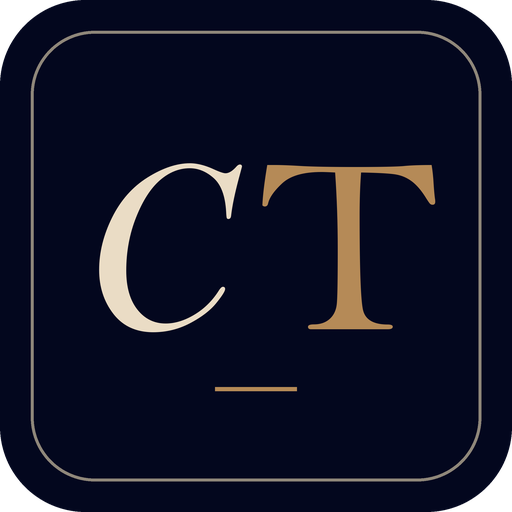
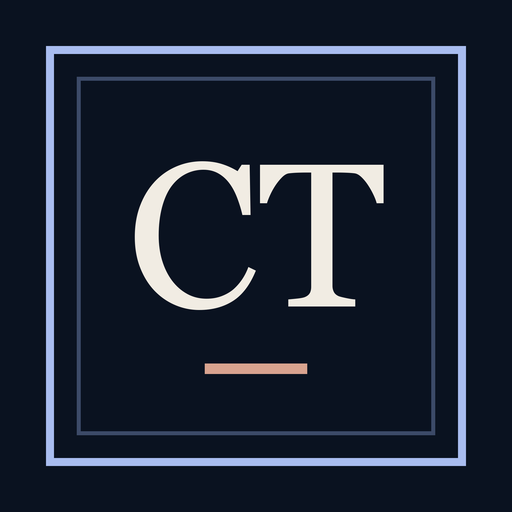
Revert the side-by-side CT monogram; back to the previous CT

diff --git a/index.html b/index.html
@@ -24,8 +24,8 @@
   <link href="https://fonts.googleapis.com/css2?family=Libre+Caslon+Display&family=Tinos:ital,wght@0,400;0,700;1,400&family=Pinyon+Script&family=Mrs+Saint+Delafield&display=swap" rel="stylesheet" />
   <link rel="icon" type="image/png" sizes="64x64" href="assets/favicon-64.png" />
   <link rel="apple-touch-icon" href="assets/apple-touch-icon.png" />
-  <link rel="stylesheet" href="css/style.css?v=381" />
-  <script src="js/boot.js?v=381"></script>
+  <link rel="stylesheet" href="css/style.css?v=371" />
+  <script src="js/boot.js?v=371"></script>
 </head>
 <body>
   <div class="intro" id="intro" aria-hidden="true">
@@ -37,7 +37,7 @@
   </div>
   <div class="backdrop" aria-hidden="true">
     <div class="weave"></div>
-    <div class="emboss"><span class="mc">C</span><span class="mt">T</span></div>
+    <div class="emboss">CT</div>
   </div>
   <div class="wipe" id="wipe" aria-hidden="true"></div>
   <div class="progress" id="progress" aria-hidden="true"></div>
@@ -45,7 +45,7 @@
   <!-- ============ NAV ============ -->
   <header class="nav" id="nav">
     <div class="nav-in">
-      <a class="logo" href="#home" aria-label="Chennuru Tejith, home"><span class="crest" aria-hidden="true"><span><span class="mc">C</span><span class="mt">T</span></span></span><span class="logo-name">Chennuru Tejith</span></a>
+      <a class="logo" href="#home" aria-label="Chennuru Tejith, home"><span class="crest" aria-hidden="true"><span>CT</span></span><span class="logo-name">Chennuru Tejith</span></a>
       <nav class="nav-links" aria-label="Sections">
         <a href="#home">Home</a>
         <a href="#about">About</a>
@@ -101,7 +101,7 @@
         <figure class="portrait" id="portrait" hidden>
           <span class="portrait-tag" aria-hidden="true">Chennuru Tejith · Hyderabad · BBA + MBA</span>
           <div class="frame" id="frame">
-            <div class="frame-empty" aria-hidden="true"><span class="crest crest-xl"><span><span class="mc">C</span><span class="mt">T</span></span></span><span>Portrait</span></div>
+            <div class="frame-empty" aria-hidden="true"><span class="crest crest-xl"><span>CT</span></span><span>Portrait</span></div>
             <span class="frame-fx" aria-hidden="true"></span>
           </div>
           <figcaption class="pq">
@@ -371,7 +371,7 @@
     <section class="cta wrap" id="contact" data-page="contact">
       <div class="cta-card">
         <div class="cta-bg" aria-hidden="true"></div>
-        <span class="watermark" aria-hidden="true"><span class="mc">C</span><span class="mt">T</span></span>
+        <span class="watermark" aria-hidden="true">CT</span>
         <p class="kicker light">Contact</p>
         <h2>Let&rsquo;s work together<span class="dot-c">.</span></h2>
         <div class="sig" id="sig" aria-label="Signature"></div>
@@ -526,11 +526,11 @@
 
   <div class="toast" id="toast" role="status" hidden></div>
 
-  <script src="js/data.js?v=381"></script>
-  <script src="js/icons.js?v=381"></script>
-  <script src="js/india.js?v=381"></script>
+  <script src="js/data.js?v=371"></script>
+  <script src="js/icons.js?v=371"></script>
+  <script src="js/india.js?v=371"></script>
   <script src="js/vendor/gsap.min.js?v=3125"></script>
   <script src="js/vendor/lenis.min.js?v=1113"></script>
-  <script src="js/app.js?v=381"></script>
+  <script src="js/app.js?v=371"></script>
 </body>
 </html>

diff --git a/build.js b/build.js
@@ -277,8 +277,7 @@ fs.writeFileSync("404.html", `<!doctype html>
 * { box-sizing: border-box; }
 body { margin: 0; min-height: 100vh; display: grid; place-items: center; padding: 40px 20px; background: var(--bg); color: var(--ink); font: 17px/1.65 "Times New Roman", Tinos, Times, serif; }
 main { width: min(760px, 100%); }
-.crest i { font-style: italic; color: var(--ink); } .crest b { font-weight: 400; color: var(--acc); }
-.crest { display: inline-flex; align-items: center; justify-content: center; gap: 2px; border-radius: 12px; width: 56px; height: 56px; border: 1px solid var(--ink4); font: 24px "Bell MT", "Libre Caslon Display", "Times New Roman", serif; text-decoration: none; color: var(--ink); }
+.crest { display: inline-grid; place-items: center; width: 56px; height: 56px; border: 1px solid var(--ink4); font: 24px "Bell MT", "Libre Caslon Display", "Times New Roman", serif; text-decoration: none; color: var(--ink); }
 .k { margin: 40px 0 14px; font: 11px "Times New Roman", Tinos, Times, serif; letter-spacing: .22em; text-transform: uppercase; color: var(--clay); }
 h1 { margin: 0 0 18px; font: 400 clamp(56px, 10vw, 120px)/.95 "Bell MT", "Libre Caslon Display", "Times New Roman", serif; letter-spacing: -.02em; }
 h1 span { color: var(--clay); }
@@ -290,7 +289,7 @@ nav a:hover { color: var(--acc); }
 </head>
 <body>
 <main>
-<a class="crest" href="/" aria-label="Home"><i>C</i><b>T</b></a>
+<a class="crest" href="/" aria-label="Home">CT</a>
 <p class="k">Error 404</p>
 <h1>This page took a wrong turn<span>.</span></h1>
 <p>The link may be old, or the address mistyped. Everything is still here:</p>

diff --git a/404.html b/404.html
@@ -14,8 +14,7 @@
 * { box-sizing: border-box; }
 body { margin: 0; min-height: 100vh; display: grid; place-items: center; padding: 40px 20px; background: var(--bg); color: var(--ink); font: 17px/1.65 "Times New Roman", Tinos, Times, serif; }
 main { width: min(760px, 100%); }
-.crest i { font-style: italic; color: var(--ink); } .crest b { font-weight: 400; color: var(--acc); }
-.crest { display: inline-flex; align-items: center; justify-content: center; gap: 2px; border-radius: 12px; width: 56px; height: 56px; border: 1px solid var(--ink4); font: 24px "Bell MT", "Libre Caslon Display", "Times New Roman", serif; text-decoration: none; color: var(--ink); }
+.crest { display: inline-grid; place-items: center; width: 56px; height: 56px; border: 1px solid var(--ink4); font: 24px "Bell MT", "Libre Caslon Display", "Times New Roman", serif; text-decoration: none; color: var(--ink); }
 .k { margin: 40px 0 14px; font: 11px "Times New Roman", Tinos, Times, serif; letter-spacing: .22em; text-transform: uppercase; color: var(--clay); }
 h1 { margin: 0 0 18px; font: 400 clamp(56px, 10vw, 120px)/.95 "Bell MT", "Libre Caslon Display", "Times New Roman", serif; letter-spacing: -.02em; }
 h1 span { color: var(--clay); }
@@ -27,7 +26,7 @@ nav a:hover { color: var(--acc); }
 </head>
 <body>
 <main>
-<a class="crest" href="/" aria-label="Home"><i>C</i><b>T</b></a>
+<a class="crest" href="/" aria-label="Home">CT</a>
 <p class="k">Error 404</p>
 <h1>This page took a wrong turn<span>.</span></h1>
 <p>The link may be old, or the address mistyped. Everything is still here:</p>

diff --git a/css/style.css b/css/style.css
@@ -1813,18 +1813,3 @@ html.motion-off .f1 { display: none; }
 [data-theme="light"] .backdrop { box-shadow: inset 0 0 220px rgba(80, 60, 30, 0.10) !important; }
 @media (max-width: 720px) { .emboss { right: -14vw; font-size: 80vw; } }
 @media print { .weave, .emboss { display: none; } }
-
-/* ============================================================
-   Round 29: CT monogram, side by side: an italic linen C and an upright bronze T
-   ============================================================ */
-.mc { font-style: italic; color: var(--ink); }
-.mt { font-style: normal; color: var(--acc); margin-left: 0.1em; }
-.crest > span { display: inline-flex; align-items: baseline; letter-spacing: 0; }
-.crest .mt { margin-left: 0.1em; }
-/* the embossed watermark keeps the two letters distinct too */
-.emboss { display: flex; align-items: baseline; gap: 0.06em; color: transparent; }
-.emboss .mc { color: rgba(234, 220, 197, 0.022); font-style: italic; }
-.emboss .mt { color: rgba(181, 138, 87, 0.035); text-shadow: -1px -1px 0 rgba(255, 230, 190, 0.05), 1px 1px 0 rgba(0, 0, 0, 0.55), 0 0 70px rgba(181, 138, 87, 0.08); }
-[data-theme="light"] .emboss .mc { color: rgba(255, 255, 255, 0.08); }
-[data-theme="light"] .emboss .mt { color: rgba(122, 85, 48, 0.05); text-shadow: -1px -1px 0 rgba(255, 255, 255, 0.5), 1px 1px 0 rgba(80, 60, 30, 0.08); }
-.watermark { display: inline-flex; }

diff --git a/js/app.js b/js/app.js
@@ -663,7 +663,7 @@
   async function openShare() {
     try { await loadQR(); } catch (e) { toast("Couldn't load the QR code"); return; }
     const qr = qrcode(0, "M"); qr.addData(shareUrl()); qr.make();
-    $("#shareCard").innerHTML = `<span class="crest"><span><span class="mc">C</span><span class="mt">T</span></span></span>
+    $("#shareCard").innerHTML = `<span class="crest"><span>CT</span></span>
       <h3 id="shareTitle">${esc(D.profile.name)}</h3>
       <p>Finance · Operations · Leadership</p>
       <div class="sc-row"><span>BBA + MBA, O.P. Jindal Global University<br>${esc(D.profile.email)}</span><div class="sc-qr">${qr.createSvgTag({ cellSize: 4, margin: 0, scalable: true })}</div></div>`;

diff --git a/tools/make-og.py b/tools/make-og.py
@@ -38,8 +38,7 @@ for name, (kicker, title, lines) in PAGES.items():
     d = ImageDraw.Draw(img)
     # crest
     d.rounded_rectangle((1040, 70, 1120, 150), radius=12, outline=INK3 + (255,), width=1)
-    d.text((1078, 106), "C", font=italic(34), fill=INK, anchor="rm")
-    d.text((1080, 106), "T", font=serif(34), fill=ACC, anchor="lm")
+    d.text((1080, 106), "CT", font=serif(34), fill=INK, anchor="mm")
     d.line([(1070, 132), (1090, 132)], fill=CLAY, width=2)
     # kicker
     d.line([(80, 120), (150, 120)], fill=CLAY, width=2)
